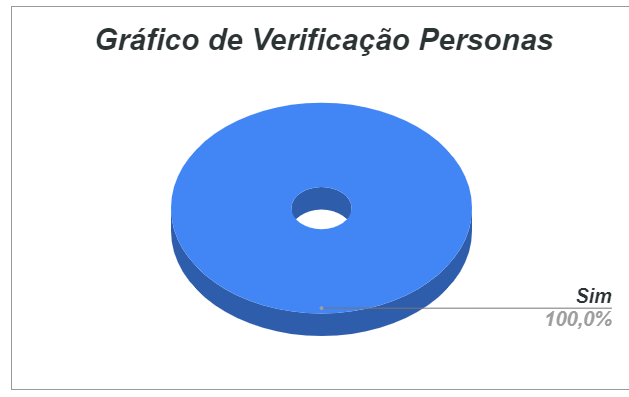
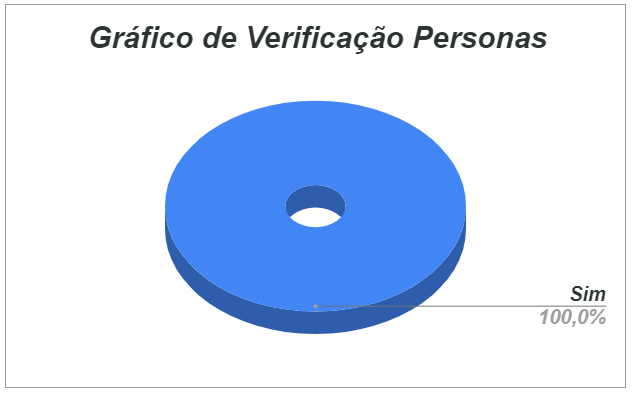
#67 correção imagens verificação personas

diff --git a/docs/analise/verificacao/ver_personas.md b/docs/analise/verificacao/ver_personas.md
@@ -39,7 +39,7 @@ Esse documento visa a verificação de possíveis erros e incoerências no docum
 <center>
 
 <figcaption>Figura 2: Checklist Personas</figcaption>
-<p align = "center"><img src="https://raw.githubusercontent.com/Requisitos-de-Software/2021.2-PontoFacil/master/docs/assets/imagens/ver_personas_resultado.PNG"></p><br>
+<p align = "center"><img src="https://github.com/Requisitos-de-Software/2021.2-PontoFacil/blob/correcao-doc-verificacao/docs/assets/imagens/ver_personas_resultado.PNG?raw=true"></p><br>
 <figcaption>Fonte: Elaborado pelos autores.</figcaption>
 
 </center>
@@ -50,7 +50,7 @@ Esse documento visa a verificação de possíveis erros e incoerências no docum
 
 <center>
 <figcaption>Figura 3: Gráfico de verificação Personas.</figcaption>
-<p align = "center"><img src="https://raw.githubusercontent.com/Requisitos-de-Software/2021.2-PontoFacil/master/docs/assets/imagens/ver_personas_grafico.PNG"></p><br>
+<p align = "center"><img src="https://github.com/Requisitos-de-Software/2021.2-PontoFacil/blob/correcao-doc-verificacao/docs/assets/imagens/ver_personas_grafico.PNG?raw=true"></p><br>
 
 <figcaption>Fonte: Elaborado pelos autores.</figcaption>
 
